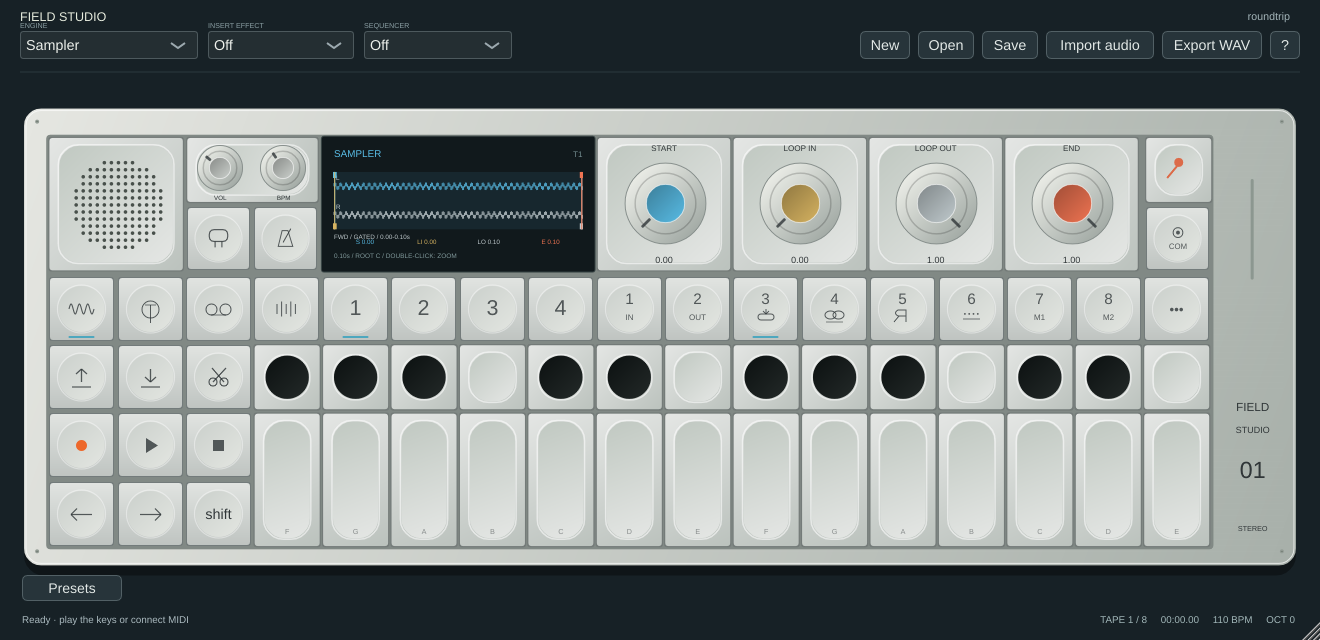
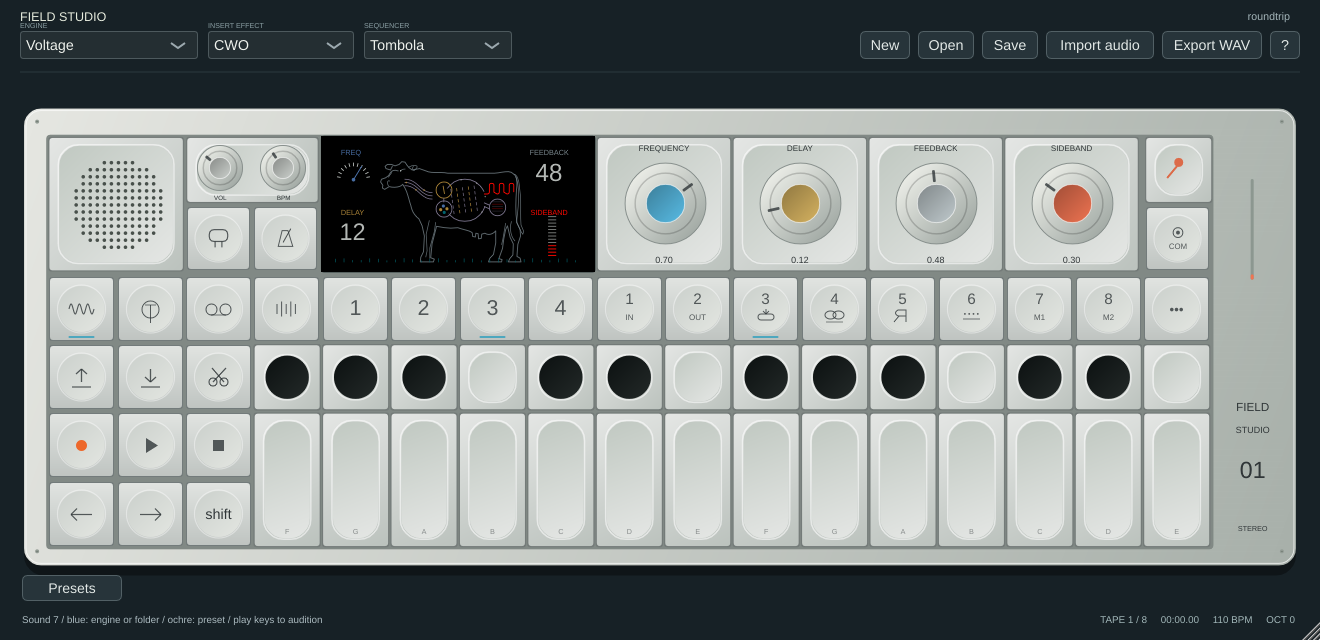
Prepare 0.2.2 beta release with CWO README screenshot

diff --git a/docs/RELEASE_NOTES.md b/docs/RELEASE_NOTES.md
@@ -1,4 +1,4 @@
-# Field Studio 0.2.1 beta 1
+# Field Studio 0.2.2 beta 1
 
 Reliability update to the portable multi-platform beta of the independent synthesizer, sampler and four-track stereo tape instrument. Exact OP-1 field sound, feature and visual parity is not established.
 
@@ -15,13 +15,16 @@ Original Field Studio code/graphics: **MIT**. Combined app/plugin binaries with 
 
 Each download has a SHA-256 sidecar. Binary bundles include installation instructions, dependency notices and a per-file hash manifest. These are portable archives, not signed installers. Windows binaries are unsigned; macOS binaries are not Developer ID signed/notarized. Commercial DAWs, physical audio devices and MIDI controllers still need hands-on validation.
 
-## Fixed in this beta
+## Added and fixed in this beta
 
-- Large record/capture/album reserve allocation and prefaulting happen outside the live lock.
-- Tape edits use independent prepared state and reject stale sources. Old history and media are reclaimed after unlocking.
-- Project/new-project DSP preparation and resampling, sample/patch preparation, imported-sample serialization and UI waveform calculations move out of the live lock.
-- Tape pools have a shared 2 GiB default reservation cap, with COM controls and recoverable admission failures. Save/export work is serialized per processor to reduce overlapping buffers.
-- Stop and newer-project operations invalidate suspended preparations. Five allocation-pause test paths verify pilot audio continues during heavy preparation.
+- Recreated CWO cow LCD, Dimension and DSynth screens, Delay circles, and permanent panel button legends, including secondary icons on sound keys 1–8. The README now shows CWO.
+- CWO now blends lower/upper frequency-shifted sidebands, includes both at midpoint, and introduces dry sound as Feedback rises. Its internal mechanisms respond to controls with continuous motion.
+- Delay Range moves the selected ring and centre together. Input Level controls new material entering the loop while preserving dry audio and circulating echoes. Slow settings add buffer colour. Held controls no longer produce invented circle wobble.
+- CWO/Delay Shift fine-adjusts all four native controls. The optional overall wet/dry override is in COM; new selections and active native imports use full module output. Existing saved blend settings are preserved.
+- Added engine/preset browsing, persistent dated snapshots, nested user folders, rename/copy/move/delete and 45 original starter presets. Fixed shifted number-key preset shortcuts.
+- Project saving and WAV export run on a bounded cancellable worker. Earlier prepared-media, tape reservation and stale-operation reliability improvements are retained.
+
+CWO/Delay sound can differ from earlier beta versions following the signal-path corrections. Back up projects before upgrading. Public hardware demonstrations informed these changes; exact hardware transfer curves, animation timing and present-firmware parity remain unverified. See docs/research/EFFECT_VISUAL_MOTION.md and docs/PARITY.md.
 
 ## Known limitations
 

diff --git a/README.md b/README.md
@@ -2,7 +2,7 @@
 
 A native synthesizer, sampler and four-track stereo tape instrument inspired by the OP–1 field workflow. Builds a standalone application and VST3 from the same C++ audio engine; macOS also builds AU.
 
-![Field Studio running on Linux, showing the sampler waveform, four coloured encoders and two-octave keyboard](docs/screenshots/field-studio.png)
+![Field Studio running on Linux, showing the CWO cow effect, four coloured encoders and two-octave keyboard](docs/screenshots/field-studio.png)
 
 This is an independently written recreation. **Exact feature, visual and sonic parity has not been established.** No manufacturer DSP, firmware, factory samples, fonts, logos or extracted artwork are bundled. See [the parity ledger](docs/PARITY.md) for concrete differences and [research findings](docs/research/FIRMWARE_FINDINGS.md) for what the firmware inspection actually established.
 
@@ -12,7 +12,7 @@ Right-click a knob and choose **MIDI learn**, then move a control on your Faderf
 
 ## Downloads
 
-[Field Studio 0.2.1 beta 1 downloads](https://github.com/stevenmcsorley/field-studio/releases/tag/v0.2.1-beta.1) are published after all automated release gates pass. The pipeline packages Windows x64 standalone/VST3, macOS universal standalone/VST3/AU and Linux x86_64 standalone/VST3, with checksums and complete corresponding source. See [beta notes](docs/RELEASE_NOTES.md) and [build/release status](docs/BUILD_STATUS.md). Binaries are unsigned development builds.
+[Field Studio 0.2.2 beta 1 downloads](https://github.com/stevenmcsorley/field-studio/releases/tag/v0.2.2-beta.1) are published after all automated release gates pass. The pipeline packages Windows x64 standalone/VST3, macOS universal standalone/VST3/AU and Linux x86_64 standalone/VST3, with checksums and complete corresponding source. See [beta notes](docs/RELEASE_NOTES.md) and [build/release status](docs/BUILD_STATUS.md). Binaries are unsigned development builds.
 
 ## Run the Linux build
 

diff --git a/docs/BUILD_STATUS.md b/docs/BUILD_STATUS.md
@@ -1,4 +1,13 @@
-# Build and release status
+# Current release status
+
+The CWO/Delay fixes passed Linux, Windows x64, macOS universal build/tests and core ASan/UBSan in [run 41246239489](https://github.com/stevenmcsorley/field-studio/actions/runs/41246239489). All eight local suites and three sanitizer suites also passed.
+
+Version 0.2.2 beta 1 includes those fixes, preset management, screen improvements and background save/export. Its tag pipeline rebuilds and tests all three platforms, verifies packages/checksums and publishes only after every gate succeeds. [Release downloads](https://github.com/stevenmcsorley/field-studio/releases/tag/v0.2.2-beta.1) contain Windows x64, Linux x86_64, macOS universal and complete corresponding source. Downloads remain unsigned; physical devices and commercial DAWs remain unverified.
+
+The live-engine commit/UI lock can still cause a contended callback to produce silence. Exact hardware equivalence is not established. See [known issues](KNOWN_ISSUES.md) and [release notes](RELEASE_NOTES.md).
+
+## Earlier build history
+
 
 Local Linux x86_64 standalone and VST3 builds pass all eight test suites. The native VST3 harness checks module loading, audio and optional stem buses; it does not substitute for commercial DAW testing.
 
